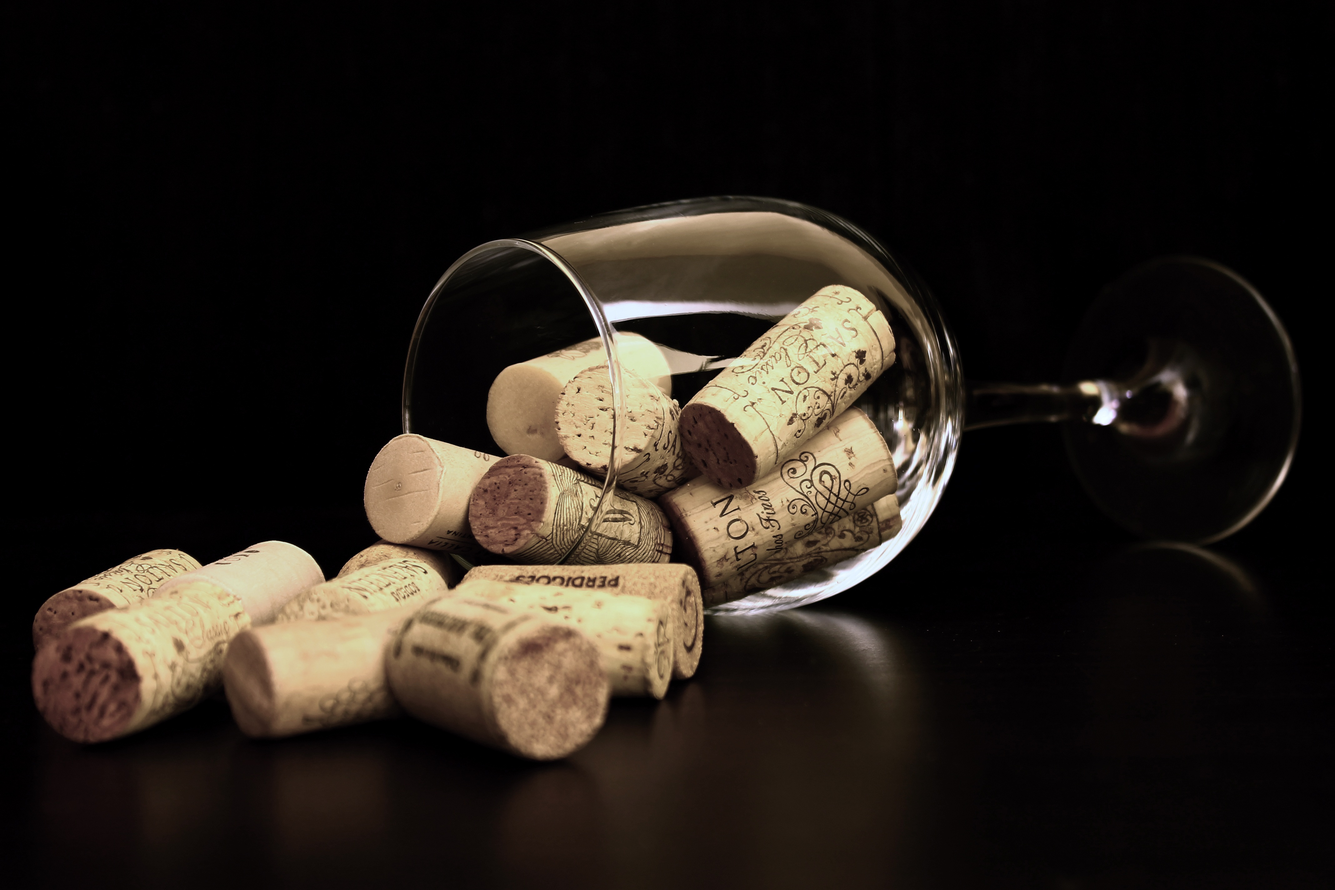
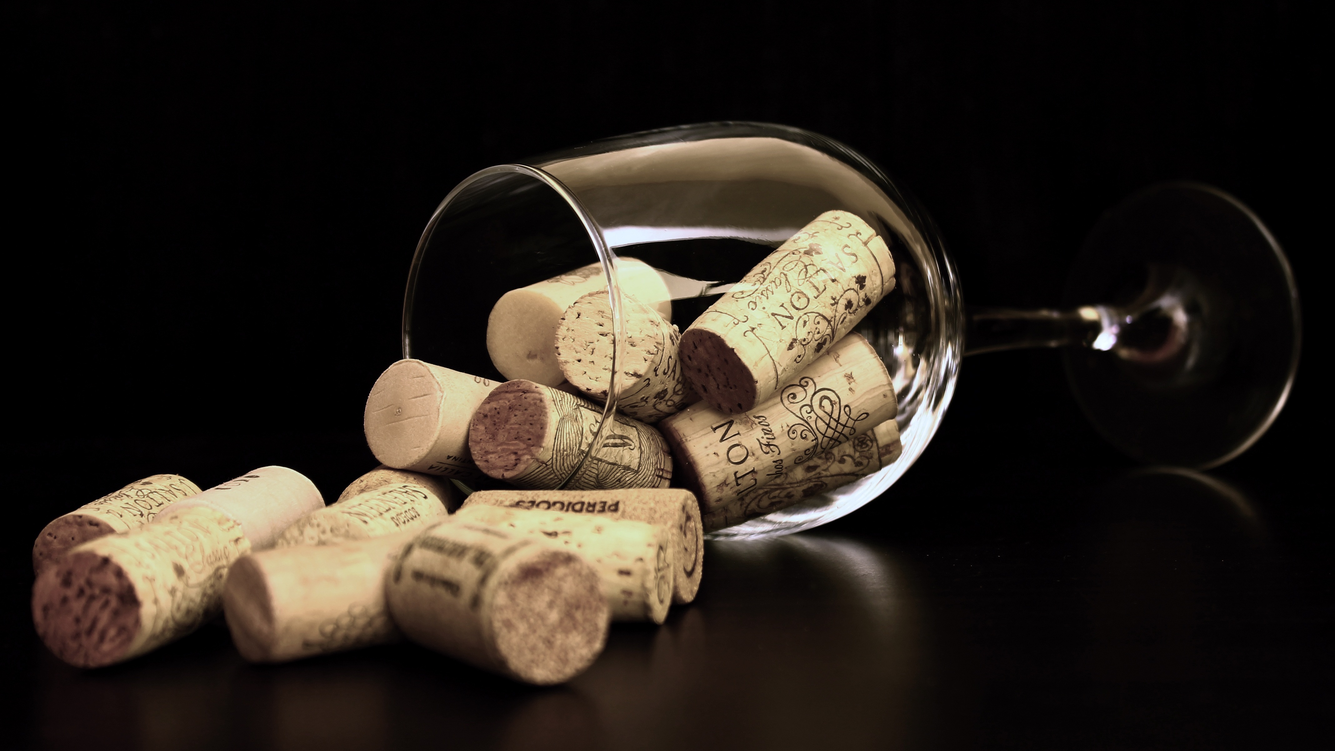
about page content

diff --git a/about.html b/about.html
@@ -34,31 +34,119 @@
 </div>
 
 
-  We use traditional methods to craft limited production Pinot Noir,
-    Syrah, Riesling and Rosé from cool and windy coastal vineyards.  Our
-    winemaker and proprietor, Scott Sisemore, brings his drive, experience,
-    and deep knowledge of red wine production to shape the wines from
-    grape harvest to bottling.</p>
+<!--Title Div Our Commitment-->
+<div id="commitment" class="container-fluid">
+  <div class="row">
+    <div id="commit" class="col-sm-8 col-sm-offset-4">
+    <h1>Our Commitment</h1>
+    </div>
+  </div>
+</div>
+<!--end Title Div Our Commitment-->
+
+
+
+<!--Image Grid-->
+<div class="container">
+  <div id="gridrow-1" class="row imagetiles">
+    <div class="col-sm-4">
+      <img src="images/grid-photo-1.jpg" class="img-responsive" alt="pour wine">
+    </div>
+    <div class="col-sm-4">
+      <img src="images/commit-text-1.png" class="img-responsive">
+    </div>
+    <div class="col-sm-4">
+      <img src="images/grid-photo-2.jpg" class="img-responsive" alt="waxwing bottles">
+    </div>
+  </div>
+</div>
+
+<div class="container">
+  <div id="gridrow-2" class="row imagetiles">
+    <div class="col-sm-4">
+      <img src="images/commit-text-2.png" class="img-responsive" alt="">
+    </div>
+    <div class="col-sm-4">
+      <img src="images/grid-photo-3.jpg" class="img-responsive" alt="">
+    </div>
+    <div class="col-sm-4">
+      <img src="images/commit-text-3.png" class="img-responsive" alt="">
+    </div>
+  </div>
+</div>
+<!--End image grid-->
 
 
 
 
+<!--The Winemaker-->
+<div id="about" class="container">
+  <div id="winemaker" class="row">
+    <div class="col-sm-4">
+    <img src="images/scott.jpg" alt="the winemaker">
+
+    </div>
+    <div class="col-sm-7">
+    <h2>The Winemaker</h2>
+        <p>Scott has over 23 years of experience in the Northern California wine
+        industry.  He learned premium red wine techniques from jobs at
+        Ravenswood Winery, Rosenblum Cellars, and other highly respected
+        California producers. In addition, he has also made wine abroad in India and Chile.
+        Before founding Waxwing, Scott served as associate
+        winemaker at Pelligrini Family Vineyards. His degrees include a B.S. in
+        microbiology from Oregon State University and an M.S. in viticulture and
+        enology from UC-Davis.</p>
+    </div>
+  </div>
+</div>
+<!--end-->
+
+
+<!--The Bird-->
+<div id="about" class="container">
+  <div id="thebird" class="row">
+    <div class="col-sm-5 col-sm-offset-1">
+      <h2>The Bird</h2>
+          <p>Cedar Waxwings are strikingly handsome North American songbirds.
+          Named for unique red wax-like tips on their wing feathers, they also
+          have a distinctive black mask, silky-sleek gray and beige plumage, a
+          feathery crest and a bright yellow band across their tails.  They travel in
+          large, gregarious flocks, foraging from coast to coast, and can be seen
+          eating berries in Northern California in winter and spring.  At Waxwing
+          Wines, we strive to make wine as beautiful as this native species.</p>
+    </div>
+    <div class="col-sm-6">
+
+    </div>
+  </div>
+</div>
+<!--end-->
 
 
 
+<!--The Wine-->
+<div id="about" class="container">
+  <div id="thewine" class="row">
+    <div class="col-sm-8">
+        <div></div>
+        <div></div>
+    </div>
+    <div class="col-sm-4">
+    <h2>The Wine</h2>
+        <p>In 2006, Scott left his commercial winemaking job to stay home with his
+        newborn son.  Using this as a chance to develop hand-crafted,
+        ultra-small-lot wines, Scott founded Waxwing Wine Cellars.  He chose to
+        focus on the wine varietals that he knows and loves, particularly Pinot
+        Noir and Syrah from the Sonoma Coast.</p>
+    </div>
+  </div>
+</div>
+<!--end-->
 
 
 
-
-
-
-
-
-
-
-
-
-
+<!--Where to Find Us-->
+<!--end-->
 
 
 

diff --git a/css/main.css b/css/main.css
@@ -458,18 +458,51 @@ hr{
 
 
 /*About Page Styling*/
+#commitment{
+  width: 100%;
+  background-image:linear-gradient(rgba(0,0,0,0.5),rgba(0, 0, 0, 0.5)), url("../images/corks-glass.jpg");
+  height:40vh;
+  background-position: center;
+  background-size: cover;
+  background-attachment: fixed;
+}
 
+#commit h1{
+  color: white;
+  font-family: 'Montserrat', Helvetica, sans-serif;
+  font-style: italic;
+  font-size: 5em;
+  margin-top: 10%;
+}
 
+#gridrow-1{
+  margin-top: 10%;
+}
 
+#gridrow-2{
+  margin-top: 3%;
+}
 
+#about p{
+  text-align: justify;
+}
 
+#winemaker h2, #thebird h2, #thewine h2{
+  font-family: 'Open Sans', sans-serif;
+  font-weight: 300;
+  text-align: center;
+  margin-top: 10%;
+}
 
-
-
-
-
-
-
+#winemaker h2:after, #thebird h2:after, #thewine h2:after{
+  width: 60px;
+  height: 2px;
+  background-color: #990000;
+  display: block;
+  content: "";
+  margin:0 auto;
+  margin-top: 10px;
+}
 
 
 
